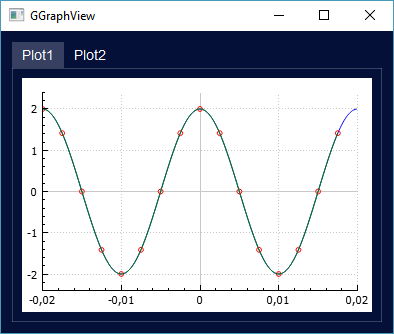
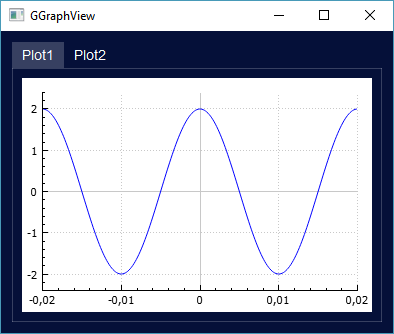
Initial Commit

diff --git a/lib/GSignal.cpp b/lib/GSignal.cpp
@@ -80,23 +80,23 @@ void GSignal::sinus() {
 //===============================================
 void GSignal::cosinus() {
     double F = 50;
-    double W = 2*M_PI*F;
     double T = 1/F;
     double tmin = -1*T;
     double tmax = +1*T;
-    int Npow = 8;
-    int Nmax = (int)qPow(2.0, (double)Npow) + 1;
+    int Nmax = (int)qPow(2.0, (double)Npow);
     double Te = (tmax - tmin)/(Nmax - 1);
     double Vmax = 2;
 
     m_paramMap.insert("ID", "cosinus");
+    m_paramMap.insert("F", F);
+    m_paramMap.insert("Vmax", Vmax);
+
     m_x.resize(Nmax);
     m_y.resize(Nmax);
 
     for(int i = 0; i < Nmax; i++) {
-        double di = i*Te;
-        double xi = tmin + di;
-        double yi = Vmax*qCos(W*xi);
+        double xi = tmin + i*Te;
+        double yi = cosinus(xi);
         m_x[i] = xi;
         m_y[i] = yi;
     }
@@ -329,7 +329,7 @@ double GSignal::signal(const double& x) {
     QString id = m_paramMap.value("ID").toString();
     double y;
     if(id == "sinus") y = sinus(x);
-    else if(id == "cosinus") y = square(x);
+    else if(id == "cosinus") y = cosinus(x);
     else if(id == "halfwave") y = square(x);
     else if(id == "fullwave") y = square(x);
     else if(id == "square") y = square(x);
@@ -345,6 +345,15 @@ double GSignal::sinus(const double& x) {
 
     double W = 2*M_PI*F;
     double y = Vmax*qSin(W*x);
+    return y;
+}
+//===============================================
+double GSignal::cosinus(const double& x) {
+    double F = m_paramMap.value("F").toDouble();
+    double Vmax = m_paramMap.value("Vmax").toDouble();
+
+    double W = 2*M_PI*F;
+    double y = Vmax*qCos(W*x);
     return y;
 }
 //===============================================

diff --git a/Integration/src/GProcess.cpp b/Integration/src/GProcess.cpp
@@ -25,7 +25,7 @@ GProcess* GProcess::Instance() {
 }
 //===============================================
 void GProcess::run() {
-    GSignal::Instance()->sinus();
+    GSignal::Instance()->cosinus();
     QVector<double> m_x = GSignal::Instance()->getX();
     QVector<double> m_y = GSignal::Instance()->getY();
     double m_xMin = GSignal::Instance()->getXmin();

diff --git a/lib/GSignal.h b/lib/GSignal.h
@@ -38,6 +38,7 @@ public:
 public:
     double signal(const double& x);
     double sinus(const double& x);
+    double cosinus(const double& x);
     double square(const double& x);
 
 private:

diff --git a/Integration/README.md b/Integration/README.md
@@ -64,6 +64,7 @@ GIntegrate::Instance()->gaussLegendre();
 # Signal Cosinus
 
 ![Signal Cosinus](https://raw.githubusercontent.com/gkesse/ReadyDSP/master/Integration/img/cosinus.png)
+![Signal Cosinus](https://raw.githubusercontent.com/gkesse/ReadyDSP/master/Integration/img/cosinus2.png)
 
 # Signal Mono-Alternance
 
